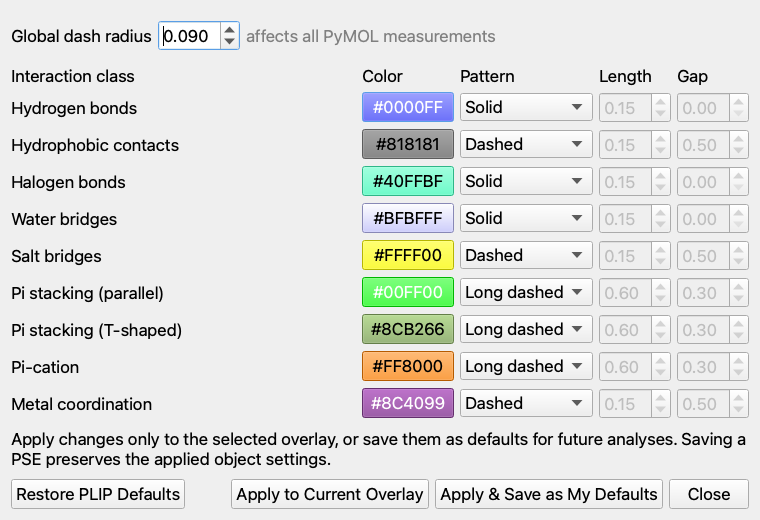
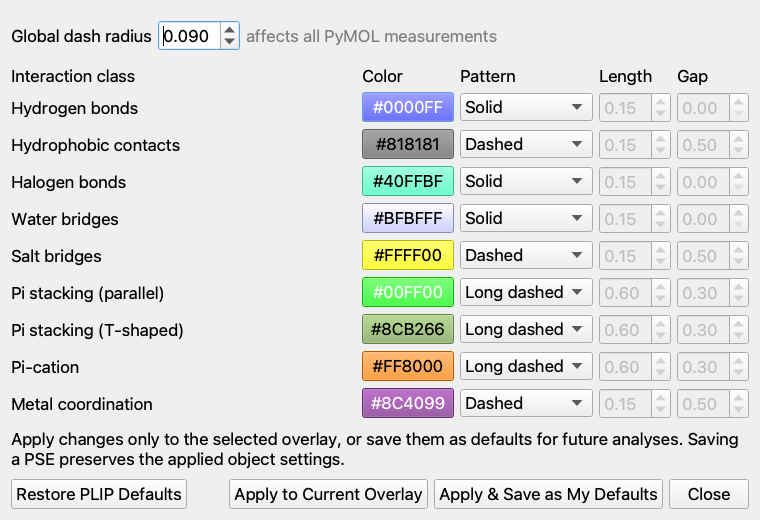
Add optional Ligand Review Panel bridge

diff --git a/pymol_plip/dialog.py b/pymol_plip/dialog.py
@@ -450,11 +450,16 @@ class PoseInspectorDialog(QtWidgets.QDialog):
         )
         self.settings_button = QtWidgets.QPushButton("Settings…")
         self.appearance_button = QtWidgets.QPushButton("Appearance…")
+        self.review_2d_button = QtWidgets.QPushButton("2D Review…")
+        self.review_2d_button.setToolTip(
+            "Open the optional Ligand Review Panel on this ligand object."
+        )
         self.citation_button = QtWidgets.QPushButton("Citation…")
         options.addWidget(self.all_button)
         options.addWidget(self.clear_button)
         options.addWidget(pocket_label)
         options.addWidget(self.pocket, 1)
+        options.addWidget(self.review_2d_button)
         options.addWidget(self.appearance_button)
         options.addWidget(self.settings_button)
         options.addWidget(self.citation_button)
@@ -486,6 +491,7 @@ class PoseInspectorDialog(QtWidgets.QDialog):
         self.clear_button.clicked.connect(controller.clear)
         self.pocket.currentIndexChanged.connect(self._set_pocket_mode)
         self.appearance_button.clicked.connect(self._show_appearance)
+        self.review_2d_button.clicked.connect(self._show_2d_review)
         self.settings_button.clicked.connect(self._show_settings)
         self.citation_button.clicked.connect(self._show_citation)
         self.diagnostics_button.clicked.connect(self._show_diagnostics)
@@ -677,6 +683,21 @@ class PoseInspectorDialog(QtWidgets.QDialog):
         self._appearance_dialog.show()
         self._appearance_dialog.raise_()
         self._appearance_dialog.activateWindow()
+
+    def _show_2d_review(self) -> None:
+        try:
+            import pymol_ligand_review
+
+            pymol_ligand_review.ligand_review_gui(self.ligand.currentText().strip())
+        except Exception as exc:
+            message = (
+                "Ligand Review Panel is not installed. Install its PyMOL Plugin Manager ZIP "
+                "to enable synchronized 2D structures and compound selection."
+                if isinstance(exc, ImportError)
+                else str(exc)
+            )
+            self.status.setText(message)
+            QtWidgets.QMessageBox.information(self, "2D Ligand Review", message)
 
     def _show_diagnostics(self) -> None:
         state = self.controller.current_status()[0]

diff --git a/tests/test_core.py b/tests/test_core.py
@@ -2,10 +2,12 @@ from __future__ import annotations
 
 import gzip
 import json
+import sys
 import tempfile
 import unittest
 from pathlib import Path
 from types import SimpleNamespace
+from unittest import mock
 
 from pymol_plip.appearance import (
     clear_saved_appearance,
@@ -81,6 +83,26 @@ class CoreTests(unittest.TestCase):
         ).split('"""', 1)[0]
         self.assertIn("# Citation:", header)
         self.assertNotIn("Citation-Required", header)
+
+    def test_plip_2d_bridge_uses_active_ligand_without_hard_dependency(self):
+        import pymol_plip
+
+        original_controller = pymol_plip._controller
+        original_dialog = pymol_plip._dialog
+        calls = []
+        companion = SimpleNamespace(ligand_review_gui=lambda ligand: calls.append(ligand))
+        try:
+            pymol_plip._controller = SimpleNamespace(active_ligand_object="poses")
+            pymol_plip._dialog = None
+            with mock.patch.dict(sys.modules, {"pymol_ligand_review": companion}):
+                pymol_plip.plip_2d()
+            self.assertEqual(calls, ["poses"])
+            with mock.patch.dict(sys.modules, {"pymol_ligand_review": None}):
+                with self.assertRaisesRegex(RuntimeError, "not installed"):
+                    pymol_plip.plip_2d()
+        finally:
+            pymol_plip._controller = original_controller
+            pymol_plip._dialog = original_dialog
 
     def test_pymol_sdf_title_cleanup(self):
         self.assertEqual(clean_state_title("ZINC123 none", state=1), "ZINC123")

diff --git a/pymol_plip/__init__.py b/pymol_plip/__init__.py
@@ -1,5 +1,5 @@
 # Name: PLIP Pose Inspector
-# Version: 0.3.0
+# Version: 0.4.0
 # Citation: Adasme et al. (2021), doi:10.1093/nar/gkab294; Salentin et al. (2015), doi:10.1093/nar/gkv315
 """PyMOL entry point for PLIP Pose Inspector.
 
@@ -88,6 +88,26 @@ def plip_pocket(mode="current", ligand=""):
     return get_controller().set_pocket_mode(mode, str(ligand))
 
 
+def plip_2d(ligand=""):
+    """Open the optional Ligand Review Panel on this run's ligand."""
+    ligand = str(ligand).strip()
+    controller = get_controller()
+    if not ligand:
+        ligand = controller.active_ligand_object
+    if not ligand and _dialog is not None:
+        ligand = _dialog.ligand.currentText().strip()
+    if not ligand:
+        raise ValueError("Choose a ligand object before opening the 2D reviewer")
+    try:
+        import pymol_ligand_review
+    except ImportError as exc:
+        raise RuntimeError(
+            "Ligand Review Panel is not installed. Install its PyMOL Plugin Manager ZIP, "
+            "then reopen this action."
+        ) from exc
+    return pymol_ligand_review.ligand_review_gui(ligand)
+
+
 def __init_plugin__(app=None):
     global _initialized
     if _initialized:
@@ -99,6 +119,7 @@ def __init_plugin__(app=None):
     cmd.extend("plip_analyze", plip_analyze)
     cmd.extend("plip_toggle", plip_toggle)
     cmd.extend("plip_pocket", plip_pocket)
+    cmd.extend("plip_2d", plip_2d)
     cmd.extend("plip_clear", plip_clear)
     addmenuitemqt("PLIP Pose Inspector", plip_gui)
     _initialized = True

diff --git a/tests/test_dialog.py b/tests/test_dialog.py
@@ -156,6 +156,10 @@ class DialogGeometryTests(unittest.TestCase):
         self.assertIn("Restore PLIP Defaults", button_texts)
         appearance.close()
 
+    def test_2d_review_launcher_is_visible(self):
+        self.assertEqual(self.dialog.review_2d_button.text(), "2D Review…")
+        self.assertIn("Ligand Review Panel", self.dialog.review_2d_button.toolTip())
+
     def test_multiple_saved_runs_require_an_explicit_ligand(self):
         from pymol_plip.profiles import empty_profile
         from pymol_plip.rendering import render_pockets, render_profiles

diff --git a/pymol_plip/constants.py b/pymol_plip/constants.py
@@ -3,7 +3,7 @@
 from __future__ import annotations
 
 PLUGIN_NAME = "PLIP Pose Inspector"
-PLUGIN_VERSION = "0.3.0"
+PLUGIN_VERSION = "0.4.0"
 PROFILE_SCHEMA_VERSION = 2
 CACHE_SCHEMA_VERSION = 1
 EXPORT_SCHEMA_VERSION = 1

diff --git a/README.md b/README.md
@@ -34,7 +34,8 @@ The current release is an Apple Silicon beta tested against the local PyMOL
 - Original receptor and ligand objects and their representations are not
   modified.
 - Scriptable `plip_gui`, `plip_analyze`, `plip_toggle`, `plip_pocket`, and
-  `plip_clear` commands.
+  `plip_clear` commands, plus an optional `plip_2d` bridge to Ligand Review
+  Panel.
 
 ## Install
 
@@ -51,7 +52,7 @@ python3 scripts/build_plugin_zip.py
 ```
 
 In PyMOL, open **Plugin → Plugin Manager → Install New Plugin**, select
-`dist/PLIP_Pose_Inspector-0.3.0.zip`, then open **Plugin → PLIP Pose
+`dist/PLIP_Pose_Inspector-0.4.0.zip`, then open **Plugin → PLIP Pose
 Inspector**. The plugin auto-detects
 `~/miniconda3/envs/pymol-plip-plugin/bin/python`; a different interpreter can
 be selected and health-checked under **Settings**.
@@ -94,6 +95,8 @@ plip_toggle types=all, enabled=toggle
 plip_pocket mode=current, ligand=ligands
 plip_pocket mode=all
 plip_pocket mode=off
+plip_2d
+plip_2d ligand=ligands
 plip_clear
 ```
 
@@ -115,6 +118,19 @@ session/project setting because it also affects unrelated measurements.
 
 `plip_clear` deletes only namespaced objects owned by the plugin. Closing the
 dialog leaves overlays and state synchronization active.
+
+## Optional 2D ligand review
+
+PLIP Pose Inspector 0.4 adds **2D Review…**, which opens the separately
+installed **Ligand Review Panel** on the current ligand selector. The companion
+uses an external RDKit process to show the current state's 2D structure and
+canonical SMILES, mark compounds, and export a compound-level CSV worklist.
+Both windows follow PyMOL's global state independently, so either can remain
+open or be hidden without affecting the other.
+
+Install the companion's Plugin Manager ZIP and RDKit environment before using
+this action. If it is absent, PLIP reports installation guidance and all
+interaction-analysis functionality remains available.
 
 ## EP4 beta demo
 

diff --git a/docs/BETA_FEEDBACK.md b/docs/BETA_FEEDBACK.md
@@ -2,7 +2,7 @@
 
 ## Gate 1 — five-pose EP4 presentation
 
-Status: Beta 0.3 ready for user retest after opening `demos/EP4_first5_beta.pse` or
+Status: Beta 0.4 ready for user retest after opening `demos/EP4_first5_beta.pse` or
 running `@demos/ep4_first5.pml`.
 
 Please review:
@@ -35,6 +35,10 @@ Feedback log:
   sessions without PLIP, persists hidden mode, adds scoped appearance defaults,
   diagnostics and Qt citation dialogs, and moves reference data under
   `fixtures/`. Awaiting user retest.
+- 2026-08-16: Beta 0.4 adds the optional Ligand Review Panel launcher. Internal
+  PyMOL 2.5/3.1 tests confirm the saved PLIP overlay and RDKit depiction follow
+  the same state before and after the 2D window is hidden. Awaiting feedback on
+  the combined 3D interaction/2D selection workflow.
 
 ## Gate 2 — 118-pose EP4 performance
 

diff --git a/docs/ARCHITECTURE.md b/docs/ARCHITECTURE.md
@@ -111,6 +111,15 @@ The 175 ms state watcher updates only dialog text and counts. It never rebuilds
 or deletes molecular geometry. Closing the dialog does not destroy the
 controller or watcher.
 
+## Optional Ligand Review bridge
+
+The **2D Review…** action and `plip_2d` command dynamically import the separate
+`pymol_ligand_review` package and pass the current ligand selection. There is
+no package-level dependency and no RDKit import in PLIP or PyMOL. Once opened,
+the companion watches PyMOL's global state independently, while PLIP's native
+measurement objects continue switching normally. A missing companion produces
+installation guidance without affecting analysis or saved overlays.
+
 ## Failure and cancellation semantics
 
 The current overlay stays intact while a worker runs. On partial completion,

diff --git a/CHANGELOG.md b/CHANGELOG.md
@@ -1,5 +1,14 @@
 # Changelog
 
+## 0.4.0 — 2026-08-16
+
+- Added an optional **2D Review…** launcher for the standalone Ligand Review
+  Panel, bound to the current ligand object.
+- Added the `plip_2d ligand=""` command and graceful guidance when the
+  companion plugin is unavailable.
+- Verified concurrent PLIP measurement overlays and state-synchronized RDKit
+  depictions in PyMOL 2.5 and 3.1.
+
 ## 0.3.0 — 2026-08-14
 
 - Prebuilt current-pose and all-analyzed pocket objects and changed modes using
